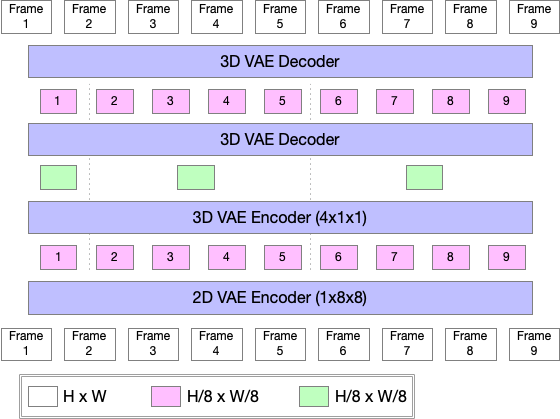
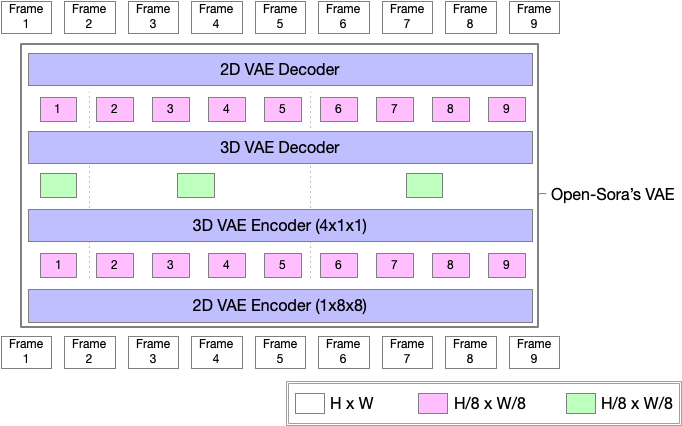
update

diff --git a/opensora/utils/config_utils.py b/opensora/utils/config_utils.py
@@ -28,6 +28,7 @@ def parse_args(training=False):
     parser.add_argument("--layernorm-kernel", default=None, type=str2bool, help="enable layernorm kernel")
     parser.add_argument("--resolution", default=None, type=str, help="multi resolution")
     parser.add_argument("--data-path", default=None, type=str, help="path to data csv")
+    parser.add_argument("--dtype", default=None, type=str, help="data type")
 
     # ======================================================
     # Inference

diff --git a/README.md b/README.md
@@ -211,7 +211,7 @@ docker run -ti --gpus all -v {MOUNT_DIR}:/data opensora
 | Model     | Model Size | Data | #iterations | Batch Size | URL                                                           |
 | --------- | ---------- | ---- | ----------- | ---------- | ------------------------------------------------------------- |
 | Diffusion | 1.1B       | 30M  | 70k         | Dynamic    | [:link:](https://huggingface.co/hpcai-tech/OpenSora-STDiT-v3) |
-| VAE       | 384M       | 3M   | 1.18M       |     8      | [:link:](https://huggingface.co/hpcai-tech/OpenSora-VAE-v1.2) |
+| VAE       | 384M       | 3M   | 1.18M       | 8          | [:link:](https://huggingface.co/hpcai-tech/OpenSora-VAE-v1.2) |
 
 See our **[report 1.2](docs/report_03.md)** for more infomation.
 
@@ -326,6 +326,15 @@ python scripts/inference.py configs/opensora-v1-2/inference/sample.py \
 ```
 
 For image to video generation and other functionalities, the API is compatible with Open-Sora 1.1. See [here](docs/commands.md) for more instructions.
+
+If your installation do not contain `apex` and `flash-attn`, you need to disable them in the config file, or via the folowing command.
+
+```bash
+python scripts/inference.py configs/opensora-v1-2/inference/sample.py \
+  --num-frames 4s --resolution 720p \
+  --layernorm-kernel False --flash-attn False \
+  --prompt "a beautiful waterfall"
+```
 
 ### GPT-4o Prompt Refinement
 
